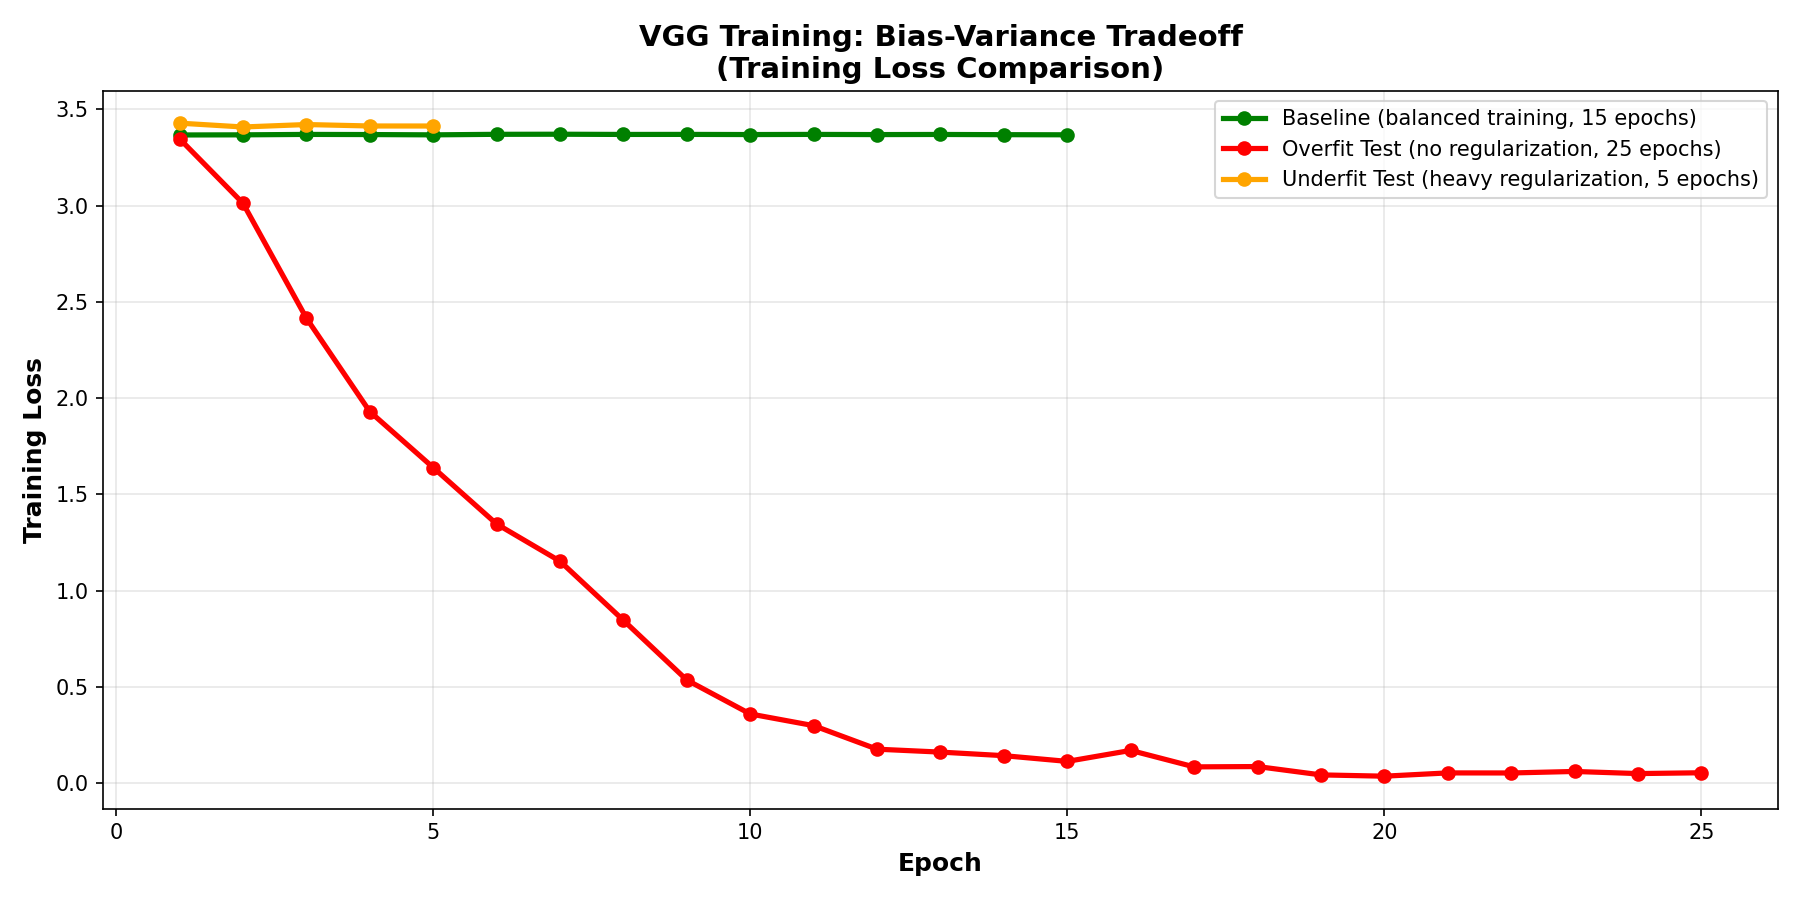
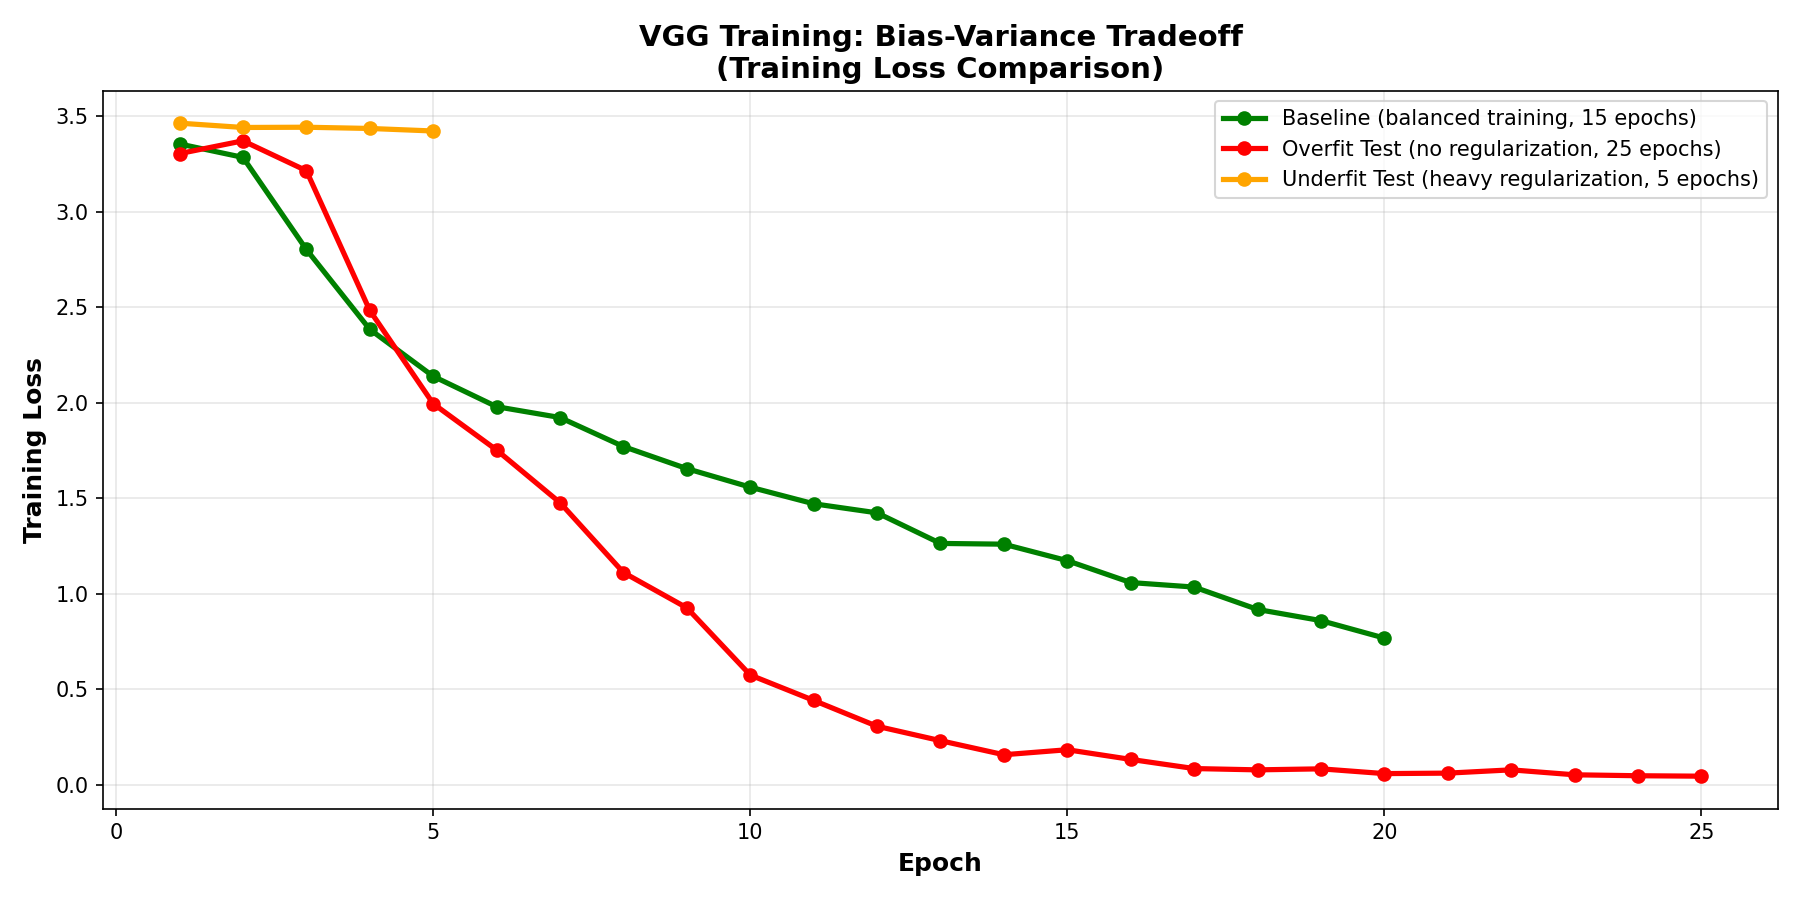
Add adapted configs parameters and rerun experiments

diff --git a/dl_lab1_deploy/implementations/main.py b/dl_lab1_deploy/implementations/main.py
@@ -4,7 +4,7 @@ import argparse
 import os
 import sys
 
-from dl_lab1_deploy.implementations.model_factory import build_model
+from model_factory import build_model
 import torch
 import torch.nn as nn
 from torch.utils.data import DataLoader
@@ -86,6 +86,15 @@ def main(args):
     epochs = int(getattr(args, 'epochs', 1))
     
     print(f"Training on {len(ds_train)} samples, validating on {len(ds_val)}, testing on {len(ds_test)}")
+    print(f"Number of classes: {num_classes}")
+    print(f"\nHyperparameters:")
+    print(f"  Model: {getattr(args, 'model', 'vgg16')}")
+    print(f"  Learning Rate: {getattr(args, 'lr', 0.01)}")
+    print(f"  Weight Decay: {getattr(args, 'weight_decay', 1e-4)}")
+    print(f"  Dropout: {getattr(args, 'dropout', 0.5)}")
+    print(f"  Epochs: {epochs}")
+    print(f"  Batch Size: {args.batch_size}")
+    print(f"  Device: {device}\n")
     
     for epoch in range(epochs):
         model.train()
